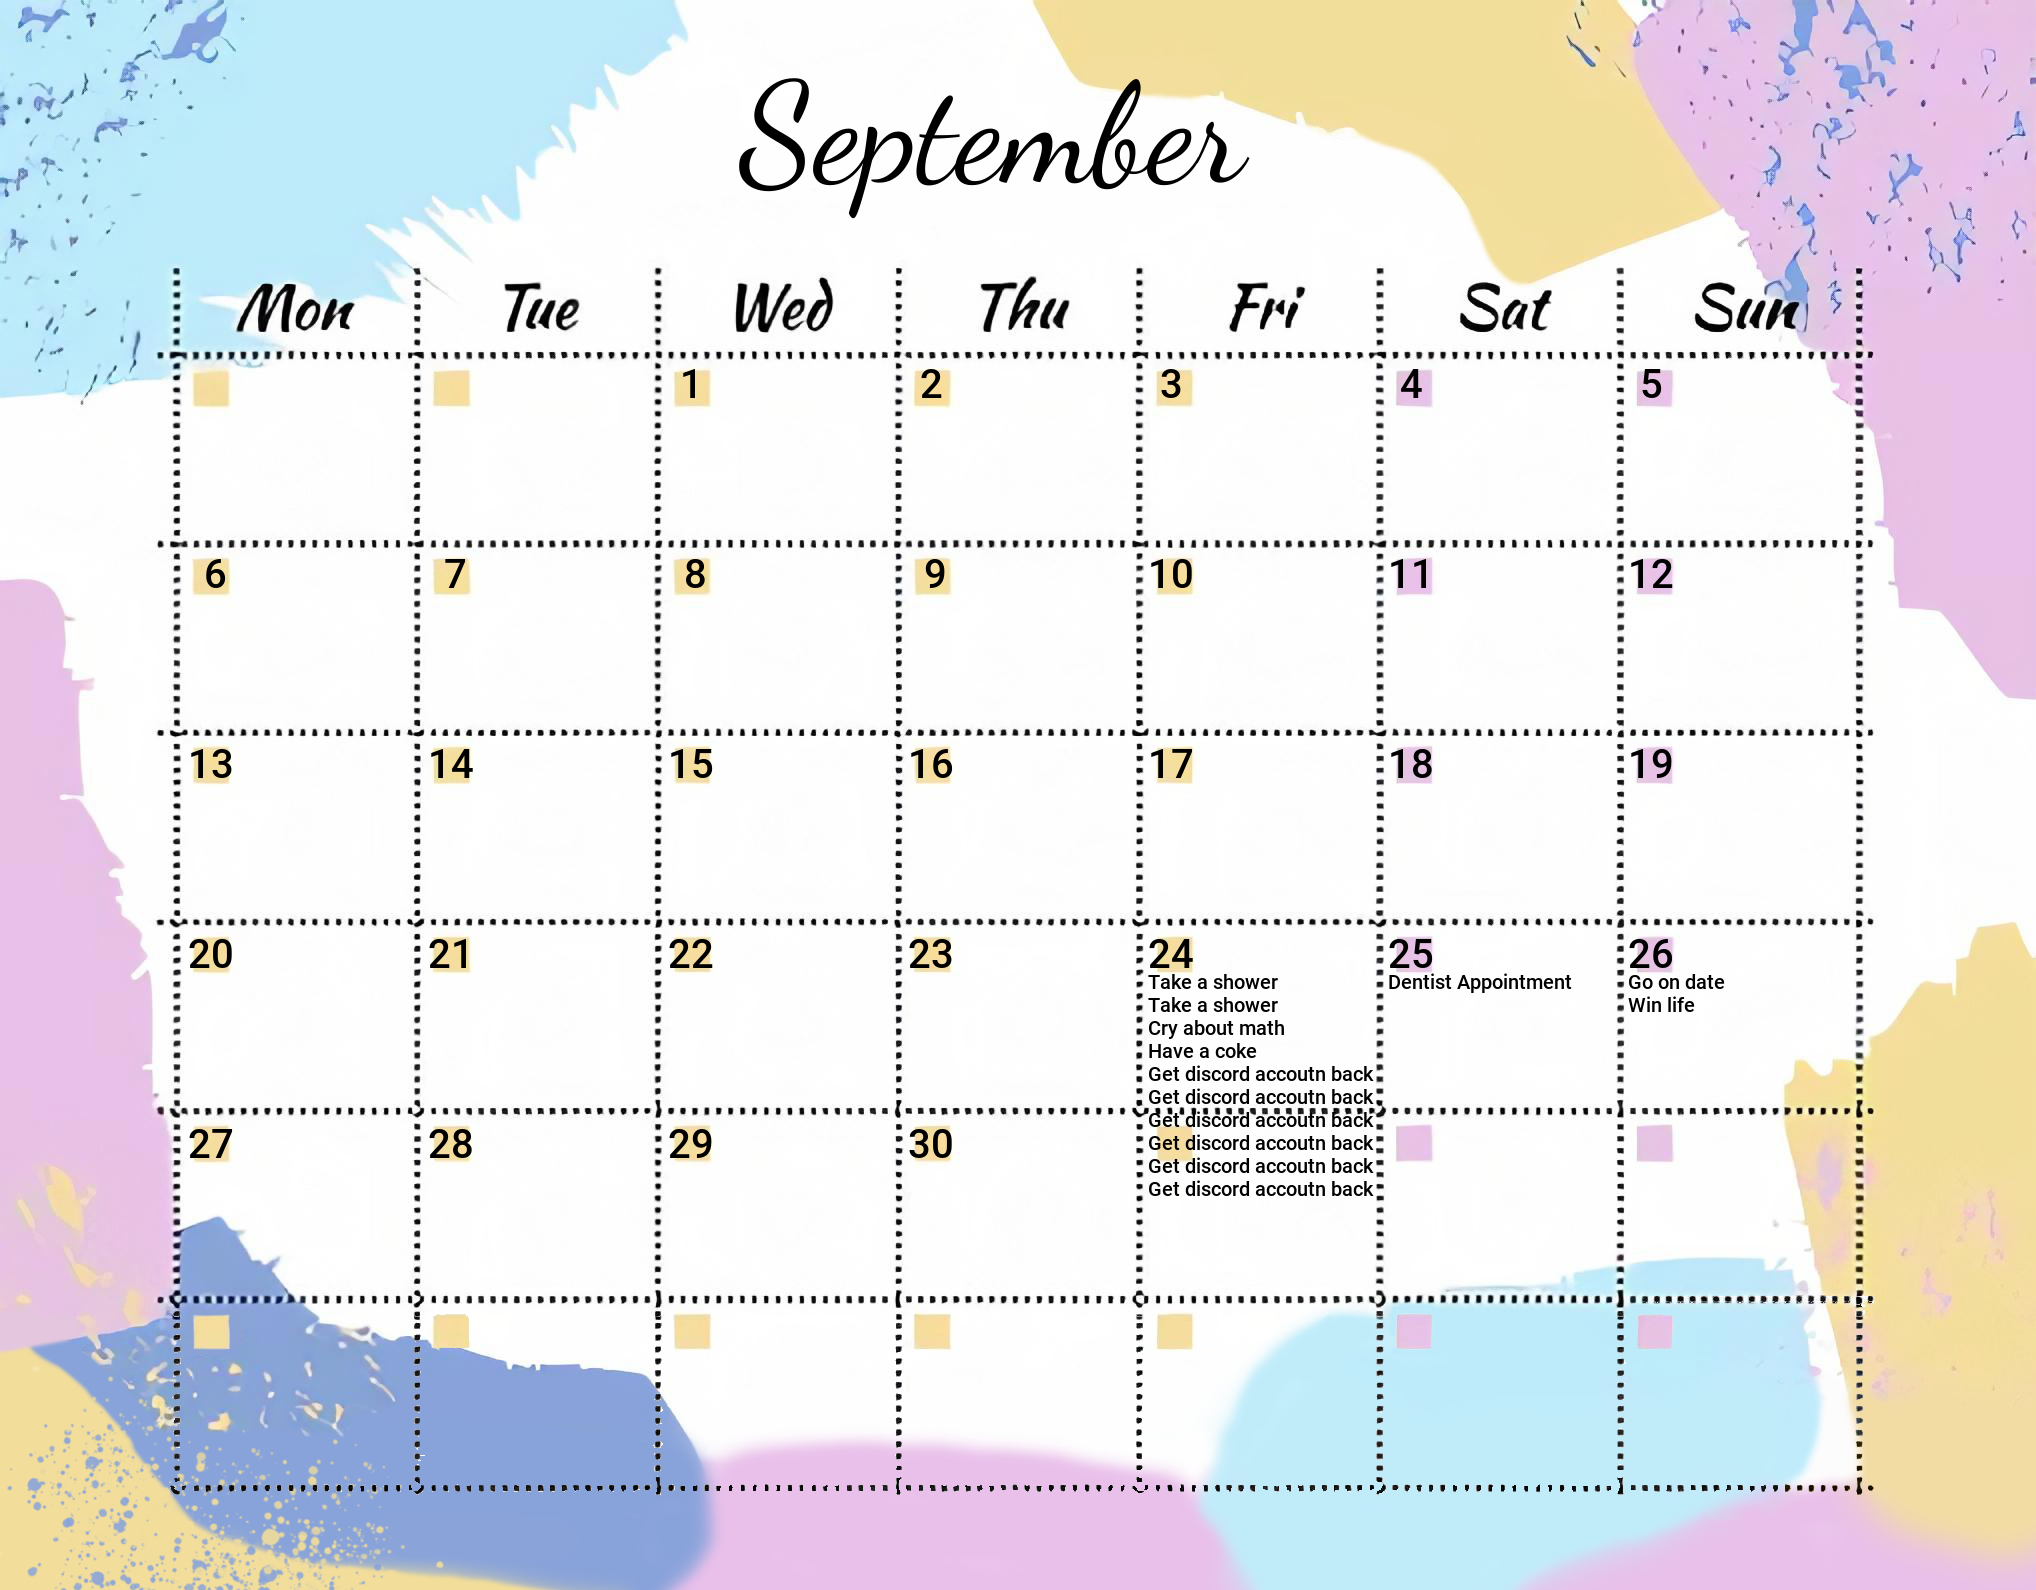
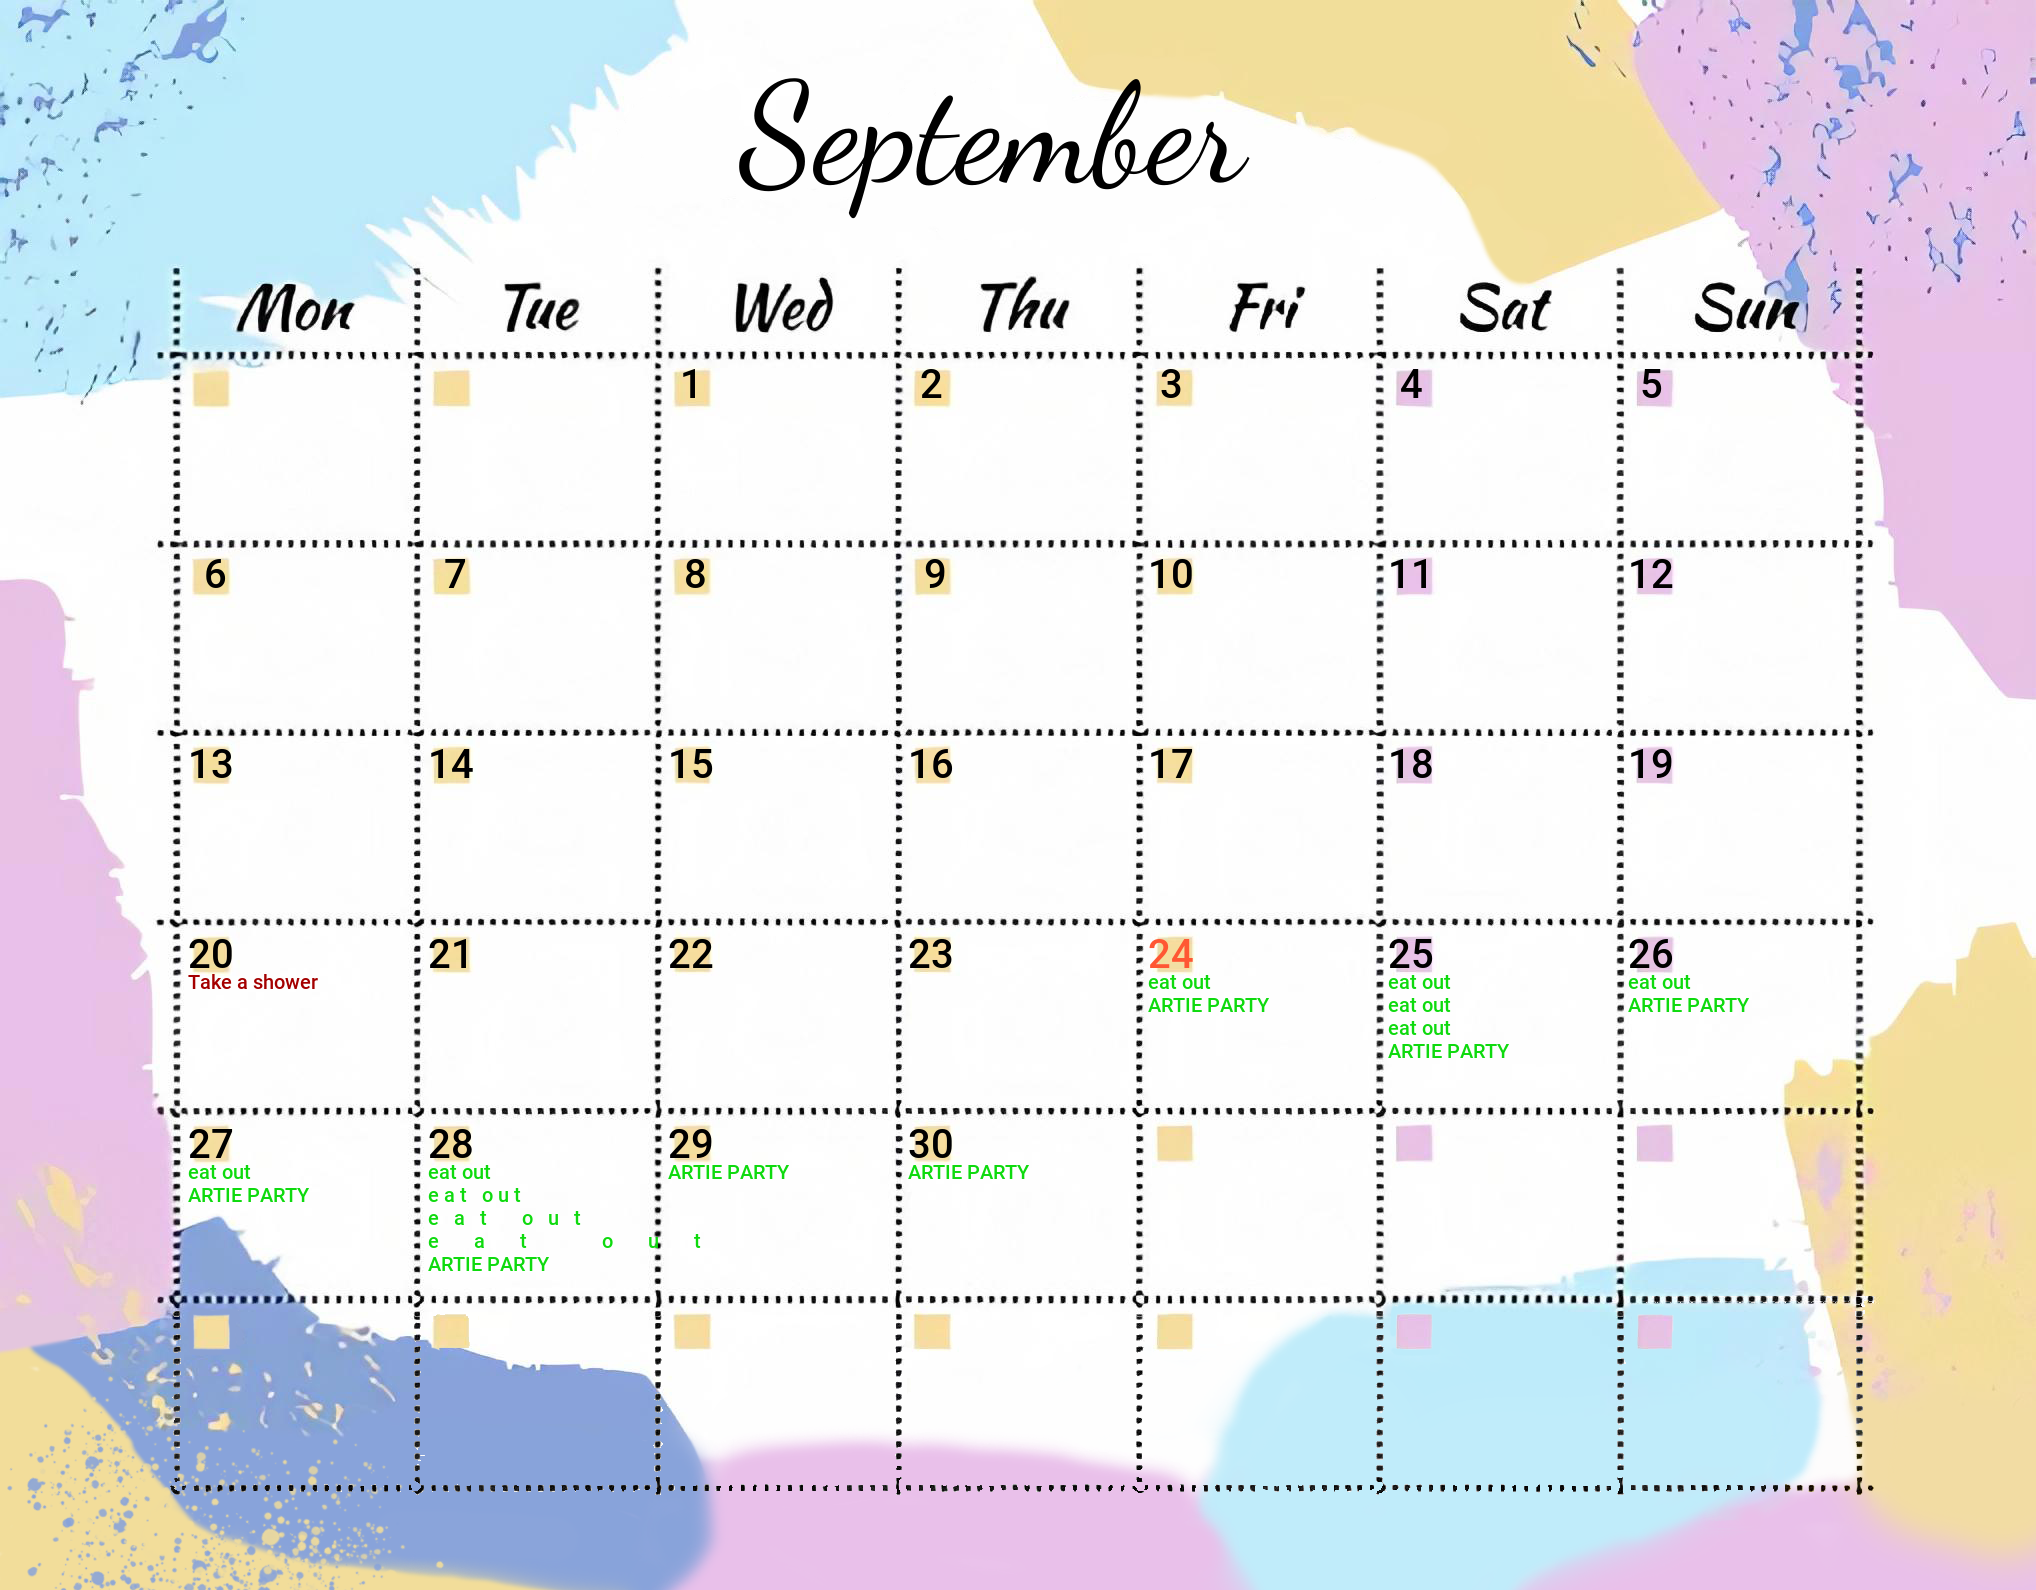
Script-Push

diff --git a/main.py b/main.py
@@ -1,6 +1,9 @@
 import asyncio
-import calendar
 import os
+from datetime import datetime, timedelta, date
+from pytz import timezone
+tz = timezone('US/Eastern')
+
 
 import discord
 from discord.ext import commands
@@ -133,14 +136,34 @@ async def restart(ctx):
     os.execv(sys.executable, [sys.argv[0]])
 
 @client.command(pass_context=True)
-async def plan(ctx, date, *content):
+async def plan(ctx, sdate, *content):
+    days = 1
+    tdate = sdate.replace("-", "/")
+    ldate : list = tdate.split("/")
+    if len(ldate) == 2:
+        ldate.append("2021")
+
+    if len(ldate) > 3:
+        if len(ldate) == 4:
+            ldate.insert(2, "2021")
+            ldate.append("2021")
+        d1 = date(int(ldate[2]), int(ldate[0]), int(ldate[1]))
+        d2 = date(int(ldate[5]), int(ldate[3]), int(ldate[4]))
+        delta = d2 - d1
+        days = delta.days + 1
+    cdate = date(int(ldate[2]), int(ldate[0]), int(ldate[1]))
     content = " ".join(content)
-    ctime = None if content.find("@") == -1 else content[content.find("@ ")+2:]
-    await backend.plan(ctx, date, content.split(" @")[0], ctime)
+    for i in range(days):
+        ctime = None if content.find("@") == -1 else content[content.find("@ ")+2:]
+        ctime = await backend.plan(ctx, cdate + timedelta(days=i), content.split(" @")[0], ctime)
+    await ctx.send(f"**{content.split(' @')[0]}** scheduled for **{sdate}** at **{ctime}**")
 
 @client.command(pass_context=True)
-async def calendar(ctx, date):
-    mdy = date.split("/")
+async def calendar(ctx, date=None):
+    if not date:
+        now = datetime.now(tz=tz)
+        mdy = [str(now.month), str(now.day), str(now.year)]
+    else: mdy = date.split("/")
     if len(mdy) == 3:
         month = mdy[0]
         year = mdy[2]
@@ -189,5 +212,5 @@ async def minutetick():
 
 
 if __name__ == "__main__":
-    client.run('MjAwNDgwMTg1MDQ3MzE4NTI4.V33luA.HHJucLwp1FAqiXxX-4-hO3TiabQ') #Main bot
-    #client.run('MjAwOTkyNTc3MTc5MjIyMDE2.V3_C7A.4d4DaKOALJDo4HqANVe6PJDkQl8')  # Test bot (Ezreal)
+    #client.run('MjAwNDgwMTg1MDQ3MzE4NTI4.V33luA.HHJucLwp1FAqiXxX-4-hO3TiabQ') #Main bot
+    client.run('MjAwOTkyNTc3MTc5MjIyMDE2.V3_C7A.4d4DaKOALJDo4HqANVe6PJDkQl8')  # Test bot (Ezreal)

diff --git a/kalendar.py b/kalendar.py
@@ -1,6 +1,9 @@
 import calendar
 import math
 import os
+from datetime import datetime
+from pytz import timezone
+tz = timezone('US/Eastern')
 
 from PIL import ImageFont, Image, ImageDraw
 
@@ -20,14 +23,14 @@ month_font = ImageFont.truetype(month_path, 140)
 
 def schedule(task, date, ctime, user_id):
     user_id = str(user_id)
-    mdy = date.split("/")
-    ym = mdy[0] + "/" + mdy[2]
+    ym = str(date.month) + "/" + str(date.year)
+    day = str(date.day)
     if ym not in user_calendar:
         user_calendar[ym] = {}
     ydict = user_calendar[ym]
-    if mdy[1] not in ydict:
-        ydict[mdy[1]] = {}
-    daydict = ydict[mdy[1]]
+    if day not in ydict:
+        ydict[day] = {}
+    daydict = ydict[day]
     if user_id not in daydict:
         daydict[user_id] = {}
     current = daydict[user_id]
@@ -45,6 +48,9 @@ def get_plans(month, year, day, ctime):
     return plans
 
 def display(month, year, user_id):
+
+    day = int(datetime.now(tz=tz).day)
+
     img = Image.open(os.path.join(os.getcwd(), "assets/calendar.png")).convert("RGBA")
     draw = ImageDraw.Draw(img)
 
@@ -66,12 +72,14 @@ def display(month, year, user_id):
         comp_x = 0 if a >= 10 else 12
         date = str(i) if i != 0 else ''
         comp_x = 16 if i >= 6 and i <= 9 else comp_x
-        draw.text((188 + xs + comp_x, y), date, (0, 0, 0), font=roboto_font)
+        color = (0, 0, 0) if i != day else (255, 87, 51)
+        draw.text((188 + xs + comp_x, y), date, color, font=roboto_font)
+        color = (14, 218, 14) if i >= day else (164, 0, 0)
         if str(i) in user_days:
             tasks = []
             ttasks = ydict[str(i)][user_id].values()
             for t in ttasks: tasks += t
-            draw.text((188 + xs + comp_x, y + 40), "\n".join(tasks), (0, 0, 0), font=activity_font)
+            draw.text((188 + xs + comp_x, y + 40), "\n".join(tasks), color, font=activity_font)
         a += 1
         xs += 240
         if a % 7 == 0:

diff --git a/backend.py b/backend.py
@@ -65,7 +65,6 @@ async def check_calendar():
     cht = now.strftime("%I")
     if cht[0] == "0": cht = cht[1:]
     ctime = cht + now.strftime(":%M%p").lower()
-    print(now.month, now.year, now.day, ctime)
     tasks = kalendar.get_plans(now.month, now.year, now.day, ctime)
     for uid in tasks.keys():
         user = await builtins.client.fetch_user(int(uid))
@@ -80,7 +79,7 @@ async def plan(ctx, date, task, ctime):
         ctime = cht + now.strftime(":%M%p")
     ctime = ctime.lower()
     kalendar.schedule(task, date, ctime, ctx.message.author.id)
-    await ctx.send(f"**{task}** scheduled for **{date}** at **{ctime}**")
+    return ctime
 
 async def play(ctx, query, message=None):
     if query.find("spotify") != -1:

diff --git a/spotify.py b/spotify.py
@@ -24,7 +24,6 @@ class Playlist():
 
         remaining = self.tracks.get("total")
         for i in range(math.ceil(remaining/100)):
-            #print(sp.playlist_items(self.id, offset=100+(i*100), limit=100))
             self.tracks["items"] += sp.playlist_items(self.id, offset=100+(i*100), limit=100)["items"]
 
         self.songs = self.get_song_names()
